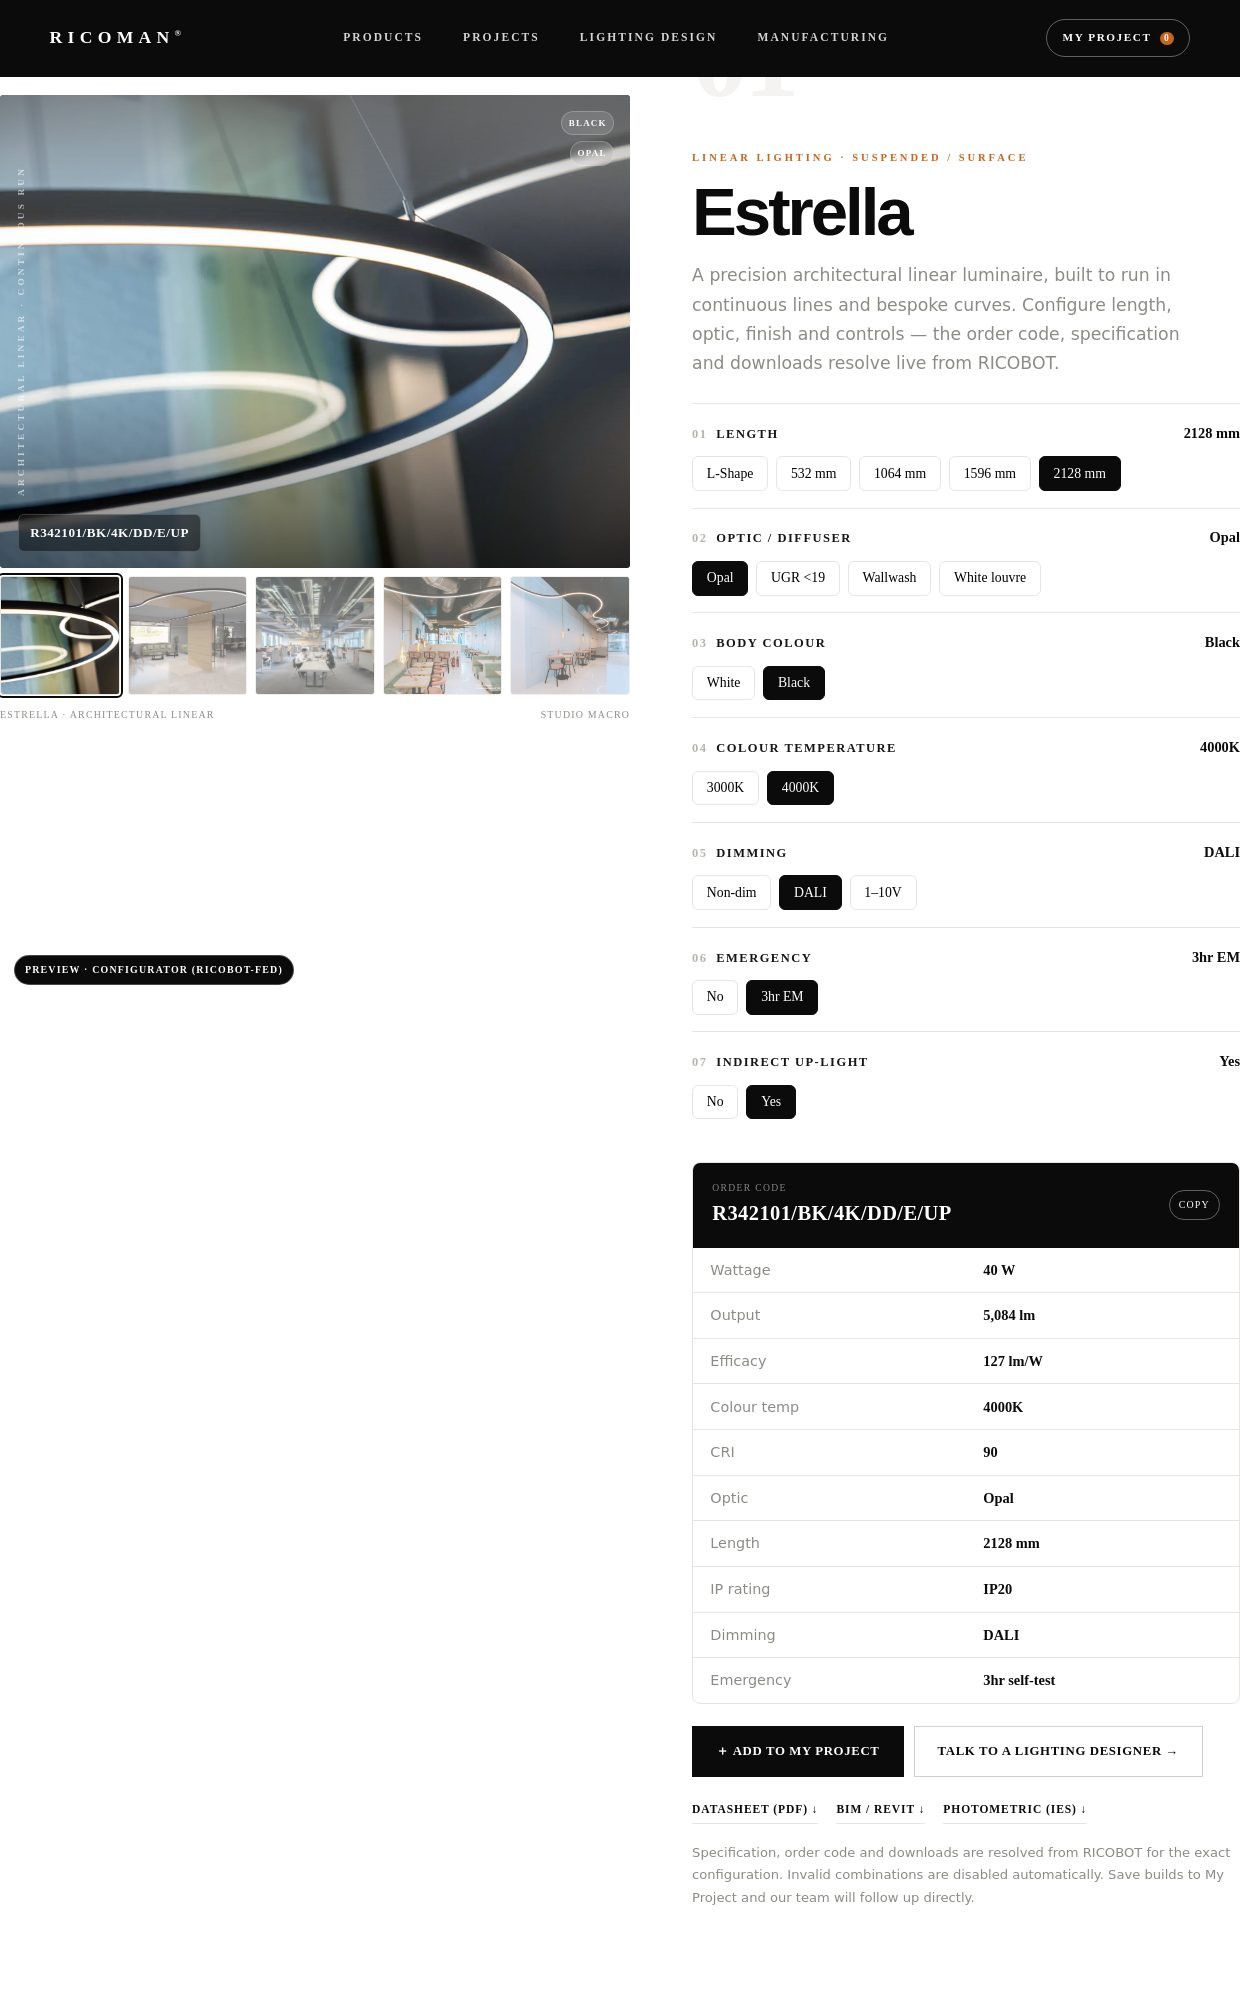
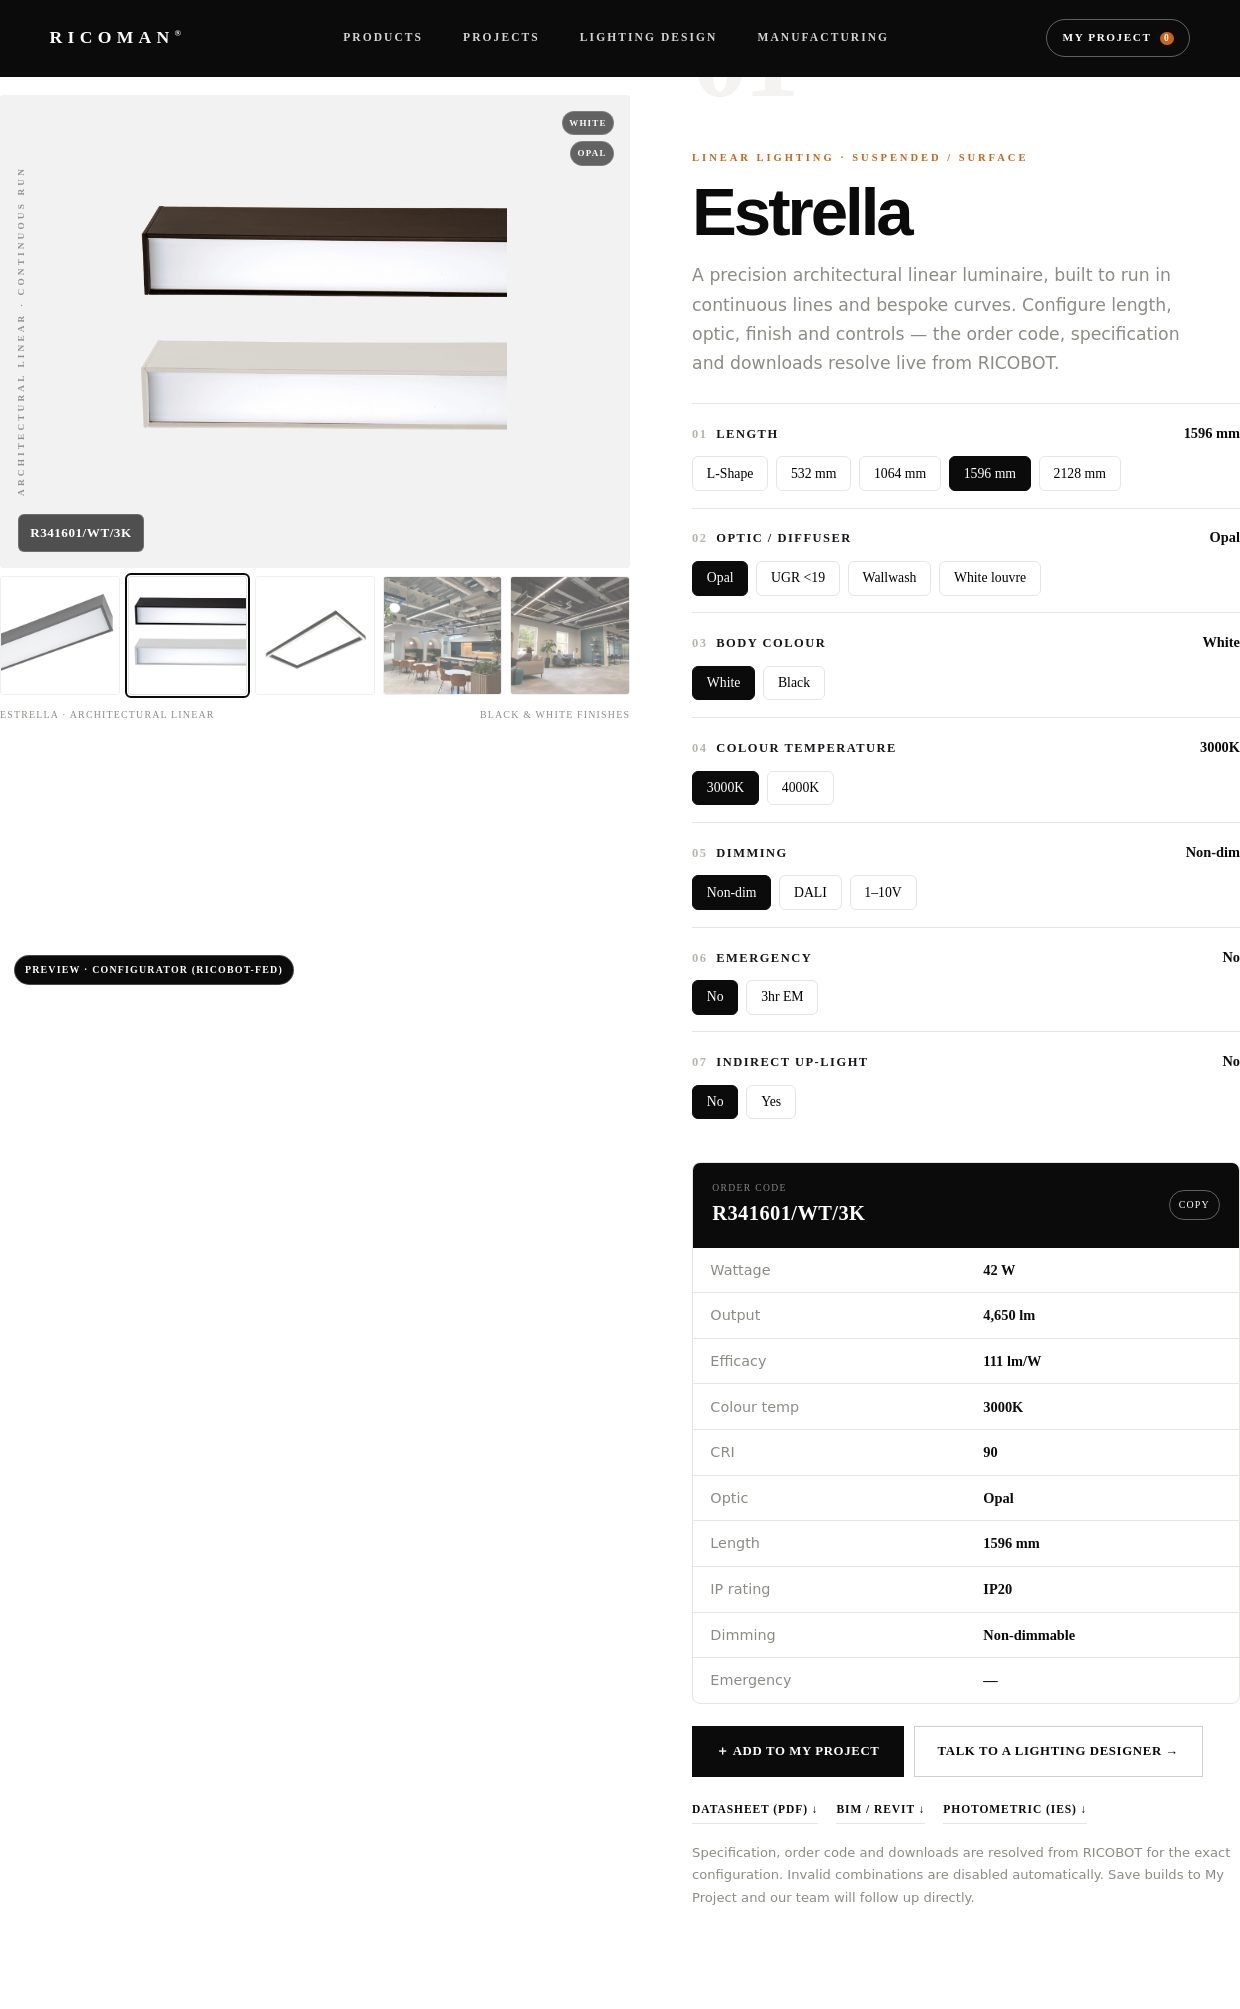
Configurator: ingest real Estrella photography + add Flow-style content
- Add 5 genuine Estrella images (black macro, black/white finish pair, L-shape
  frame, workplace canteen, breakout lounge) to previews/img
- Gallery now uses the real product + project shots; hero swaps with finish
  (white -> finish pair) and length (L-shape -> frame); product (white-bg)
  shots get a light stage with dark badges, project shots stay full-bleed
- Add rich editorial content below the configurator mirroring the Flow page:
  facts band, statement, full-bleed project, finish + continuous-run features,
  Made-in-Manchester band, spec stats, specifications + ordering tables,
  mosaic gallery, quote and CTA band

Claude-Session: https://claude.ai/code/session_01JBb5MKmF3Fs7o1qCwzd3N5

diff --git a/previews/preview-configurator.html b/previews/preview-configurator.html
@@ -55,6 +55,13 @@ header.site{position:sticky;top:0;z-index:50;background:var(--ink)}
 /* indirect up-light bloom */
 .viz .up{position:absolute;left:0;right:0;top:0;height:38%;background:linear-gradient(180deg,rgba(255,255,255,.55),transparent);opacity:0;transition:opacity .5s ease;pointer-events:none}
 .viz .grad{position:absolute;inset:0;background:linear-gradient(180deg,rgba(0,0,0,.35) 0%,transparent 24%,transparent 60%,rgba(0,0,0,.55) 100%);pointer-events:none}
+/* product (white-background) shots: light stage, contained, dark badges */
+.viz.prod{background:#f1f1f3}
+.viz.prod img{object-fit:contain;padding:7%}
+.viz.prod .grad{opacity:0}
+.viz.prod .side span{color:rgba(0,0,0,.4)}
+.viz.prod .chip{background:rgba(11,11,12,.62);border-color:rgba(255,255,255,.18)}
+.viz.prod .code{background:rgba(11,11,12,.7)}
 .viz .side{position:absolute;left:14px;top:0;bottom:0;display:flex;align-items:center;pointer-events:none}
 .viz .side span{writing-mode:vertical-rl;transform:rotate(180deg);font-family:Poppins;font-weight:600;text-transform:uppercase;letter-spacing:.34em;font-size:.58rem;color:rgba(255,255,255,.6)}
 .viz .chips{position:absolute;right:16px;top:16px;display:flex;flex-direction:column;align-items:flex-end;gap:6px}
@@ -104,6 +111,93 @@ footer.site{background:var(--ink);color:rgba(255,255,255,.5);padding:54px 0;font
 footer .row{display:flex;justify-content:space-between;flex-wrap:wrap;gap:18px;align-items:center}
 footer .brand{color:#fff;letter-spacing:.3em}
 .tag{position:fixed;left:14px;bottom:14px;z-index:99;background:var(--ink);color:#fff;font-family:Poppins;font-weight:600;font-size:.62rem;letter-spacing:.12em;text-transform:uppercase;padding:.55em 1em;border-radius:999px;border:1px solid rgba(255,255,255,.25)}
+
+/* =================== EDITORIAL CONTENT (Flow-style) =================== */
+.btn-line{border-color:rgba(255,255,255,.4);color:#fff}.btn-line:hover{background:#fff;color:var(--ink)}
+.kick .n{color:var(--ink);margin-right:1.4em}
+.kick.lt{color:rgba(255,255,255,.7)}.kick.lt .n{color:#fff}
+.col{max-width:1120px}
+.sec{padding-block:clamp(72px,10vw,160px)}
+.sec.tight{padding-block:clamp(48px,6vw,90px)}
+
+.facts{border-top:1px solid var(--line);border-bottom:1px solid var(--line)}
+.facts .wrap{display:grid;grid-template-columns:repeat(5,1fr)}
+.facts .f{padding:clamp(26px,3vw,42px) 0;padding-right:24px;border-right:1px solid var(--line)}
+.facts .f:last-child{border-right:0}
+.facts small{display:block;color:var(--muted);text-transform:uppercase;letter-spacing:.2em;font-size:.6rem;font-family:Poppins;font-weight:600;margin-bottom:12px}
+.facts b{font-family:Poppins;font-weight:500;font-size:clamp(1.05rem,1.4vw,1.45rem);letter-spacing:-.02em;color:var(--ink)}
+@media(max-width:820px){.facts .wrap{grid-template-columns:repeat(2,1fr)}.facts .f{border-right:0;border-bottom:1px solid var(--line);padding:22px var(--pad)}}
+
+.statement p{font-family:Poppins;font-weight:500;font-size:clamp(1.9rem,5vw,4.4rem);line-height:1.05;letter-spacing:-.035em;max-width:20ch;margin:0;color:var(--ink)}
+.statement p span{color:var(--faint)}
+
+.bleed{width:100%;height:clamp(380px,64vh,760px);object-fit:cover}
+.cap{font-family:Poppins;text-transform:uppercase;letter-spacing:.2em;font-size:.62rem;color:var(--muted);padding-top:14px}
+
+.feature{display:grid;grid-template-columns:1fr 1fr;gap:clamp(34px,6vw,120px);align-items:center}
+.feature + .feature{margin-top:clamp(56px,8vw,130px)}
+.feature.rev .media{order:2}
+.feature .media img{width:100%;aspect-ratio:4/5;object-fit:cover}
+.feature .media.prod{background:#f4f3f1;display:flex;align-items:center;justify-content:center}
+.feature .media.prod img{object-fit:contain;padding:8%;aspect-ratio:auto}
+.feature .body{max-width:440px}
+.feature h2{font-size:clamp(2rem,4vw,3.4rem);margin:.7em 0 .6em;font-weight:600}
+.feature .body>p{color:var(--muted);font-size:1.08rem;margin:0 0 1.6em}
+.feature ul{margin:0;padding:0;list-style:none}
+.feature li{padding:1em 0;border-top:1px solid var(--line);display:flex;gap:1.2em;align-items:baseline;font-size:1rem}
+.feature li .ix{font-family:Poppins;font-size:.66rem;letter-spacing:.14em;color:var(--faint)}
+@media(max-width:820px){.feature{grid-template-columns:1fr;gap:30px}.feature.rev .media{order:0}}
+
+.dark{background:var(--ink);color:#fff}
+.britain{display:grid;grid-template-columns:1fr 1fr;align-items:stretch}
+.britain .img{min-height:480px;background:url(img/rico-making.webp) center/cover no-repeat}
+.britain .body{padding:clamp(54px,8vw,130px) clamp(28px,6vw,100px)}
+.britain h2{color:#fff;font-size:clamp(2.2rem,4.4vw,3.6rem);margin:.6em 0 .7em;font-weight:600}
+.britain p{color:rgba(255,255,255,.7);font-size:1.1rem;margin:0 0 1.3em;max-width:44ch}
+@media(max-width:860px){.britain{grid-template-columns:1fr}.britain .img{min-height:320px;order:-1}}
+
+.specband{position:relative;color:#fff;overflow:hidden}
+.specband .bg{position:absolute;inset:0;background:url(img/estrella-canteen.jpg) center/cover no-repeat}
+.specband .scrim{position:absolute;inset:0;background:rgba(8,8,9,.76)}
+.specband .grid{position:relative;display:grid;grid-template-columns:repeat(5,1fr);gap:24px;text-align:center;padding-block:clamp(64px,8vw,130px)}
+.specband b{font-family:Poppins;font-weight:500;font-size:clamp(1.8rem,3.6vw,3.2rem);color:#fff;display:block;letter-spacing:-.03em}
+.specband small{color:rgba(255,255,255,.55);text-transform:uppercase;letter-spacing:.2em;font-size:.62rem;font-family:Poppins;font-weight:600}
+@media(max-width:820px){.specband .grid{grid-template-columns:repeat(2,1fr);gap:40px}}
+
+.tables{display:grid;grid-template-columns:1fr 1.5fr;gap:clamp(32px,6vw,100px);align-items:start}
+@media(max-width:820px){.tables{grid-template-columns:1fr}}
+.dtable{width:100%;border-collapse:collapse}
+.dtable th,.dtable td{text-align:left;padding:1.05em 0;border-bottom:1px solid var(--line);font-size:.95rem}
+.dtable th{color:var(--muted);font-weight:400;width:46%}
+.dtable td{font-family:Poppins;font-weight:600;color:var(--ink)}
+.sectlabel{font-family:Poppins;font-weight:600;font-size:1.35rem;letter-spacing:-.02em;margin-bottom:1.1em}
+.vars{width:100%;border-collapse:collapse}
+.vars thead th{border-bottom:1.5px solid var(--ink);color:var(--ink);padding:1em 0;font-family:Poppins;font-size:.66rem;text-align:left;letter-spacing:.16em;text-transform:uppercase}
+.vars td{padding:1.05em 0;border-bottom:1px solid var(--line);font-size:.9rem}
+.vars td:first-child{font-family:Poppins;font-weight:600}
+
+.mosaic{display:grid;grid-template-columns:2fr 1fr;gap:14px}
+.mosaic .c{display:grid;gap:14px}
+.mosaic img{width:100%;object-fit:cover}
+.mosaic .big{aspect-ratio:16/12}
+.mosaic .sm{aspect-ratio:1}
+@media(max-width:680px){.mosaic{grid-template-columns:1fr}}
+
+.quote{text-align:center}
+.quote blockquote{font-family:Poppins;font-weight:500;font-size:clamp(1.8rem,4.2vw,3.2rem);line-height:1.14;letter-spacing:-.03em;max-width:18ch;margin:0 auto .9em;color:var(--ink)}
+.quote cite{font-style:normal;color:var(--muted);font-family:Poppins;font-size:.7rem;letter-spacing:.2em;text-transform:uppercase}
+
+.shead{display:grid;grid-template-columns:1fr 1fr;gap:40px;align-items:end;margin-bottom:clamp(40px,6vw,80px)}
+.shead h2{font-size:clamp(2.2rem,4.6vw,4rem);margin:.5em 0 0;font-weight:600}
+@media(max-width:760px){.shead{grid-template-columns:1fr}}
+
+.ctaband{position:relative;color:#fff;text-align:center;overflow:hidden}
+.ctaband .bg{position:absolute;inset:0;background:url(img/estrella-lounge.webp) center/cover no-repeat}
+.ctaband .scrim{position:absolute;inset:0;background:rgba(8,8,9,.72)}
+.ctaband .inner{position:relative;padding-block:clamp(80px,11vw,170px)}
+.ctaband h2{color:#fff;font-size:clamp(2.2rem,4.6vw,4rem);margin-bottom:.5em;font-weight:600}
+.ctaband p{color:rgba(255,255,255,.78);max-width:46ch;margin:0 auto 2.2em;font-size:1.1rem}
+.ctaband .acts{display:flex;gap:14px;justify-content:center;flex-wrap:wrap}
 </style>
 </head>
 <body>
@@ -167,6 +261,127 @@ footer .brand{color:#fff;letter-spacing:.3em}
   </div>
 </section>
 
+<!-- ============================ STORY / CONTENT ============================ -->
+<section class="facts"><div class="wrap">
+  <div class="f"><small>Output</small><b>Up to 6,200 lm</b></div>
+  <div class="f"><small>Colour</small><b>3000K / 4000K · CRI 90</b></div>
+  <div class="f"><small>Optics</small><b>Opal · UGR&lt;19 · Wallwash</b></div>
+  <div class="f"><small>Mounting</small><b>Surface / Suspended</b></div>
+  <div class="f"><small>Warranty</small><b>5 years</b></div>
+</div></section>
+
+<section class="sec statement"><div class="wrap col">
+  <p>One profile, drawn as a single clean line. <span>Surface or suspended, in straight runs, L-shapes and frames — configured to your scheme.</span></p>
+</div></section>
+
+<figure style="margin:0"><img class="bleed" src="img/estrella-canteen.jpg" alt="Estrella suspended linear run in a workplace fit-out"></figure>
+<div class="wrap"><div class="cap">Workplace fit-out · Estrella suspended in matt black</div></div>
+
+<section class="sec"><div class="wrap">
+  <div class="feature">
+    <div class="media prod"><img src="img/estrella-finishes.png" alt="Estrella in black and white finishes"></div>
+    <div class="body">
+      <span class="kick"><span class="n">01</span>Finish</span>
+      <h2>Two finishes, one clean line</h2>
+      <p>A crisp extruded aluminium housing with a flush opal diffuser. Specified in matt black or white as standard, or any RAL to match the interior — with no visible fixings down the run.</p>
+      <ul>
+        <li><span class="ix">01</span> Matt black &amp; white as standard</li>
+        <li><span class="ix">02</span> Any RAL finish to order</li>
+        <li><span class="ix">03</span> Flush opal, UGR&lt;19, wallwash or louvre optics</li>
+      </ul>
+    </div>
+  </div>
+  <div class="feature rev">
+    <div class="media"><img src="img/estrella-lounge.webp" alt="Estrella continuous run in a breakout space"></div>
+    <div class="body">
+      <span class="kick"><span class="n">02</span>Continuous runs</span>
+      <h2>Built to run line after line</h2>
+      <p>Estrella links end-to-end into long, dot-free runs and turns through L-shapes and rectangular frames — so a single specified detail can carry across a whole floorplate.</p>
+      <ul>
+        <li><span class="ix">01</span> Continuous, joint-free diffusion</li>
+        <li><span class="ix">02</span> L-shapes &amp; rectangular frames</li>
+        <li><span class="ix">03</span> Integral 3hr emergency &amp; indirect up-light options</li>
+      </ul>
+    </div>
+  </div>
+</div></section>
+
+<section class="dark">
+  <div class="britain">
+    <div class="body">
+      <span class="kick lt"><span class="n">03</span>In-house Manufacturing</span>
+      <h2>Made to order in Manchester</h2>
+      <p>Estrella isn’t imported and rebadged. It’s engineered, assembled and tested under one roof in the UK — so runs are cut to your dimensions, finishes matched to your palette, and lead times stay short.</p>
+      <p>Designing and making in-house means tighter tolerances, full traceability, and the freedom to build to your geometry — to order, not to a catalogue.</p>
+      <a class="btn btn-line" style="margin-top:.6em">Inside our manufacturing →</a>
+    </div>
+    <div class="img"></div>
+  </div>
+</section>
+
+<section class="specband"><div class="bg"></div><div class="scrim"></div><div class="wrap"><div class="grid">
+  <div><b>6,200<span style="font-size:.34em;font-family:Poppins;letter-spacing:.05em"> LM</span></b><small>Max output</small></div>
+  <div><b>90</b><small>CRI</small></div>
+  <div><b>127<span style="font-size:.34em;font-family:Poppins;letter-spacing:.05em"> LM/W</span></b><small>Efficacy</small></div>
+  <div><b>IP20</b><small>Rating</small></div>
+  <div><b>5 yr</b><small>Warranty</small></div>
+</div></div></section>
+
+<section class="sec"><div class="wrap"><div class="tables">
+  <div>
+    <div class="sectlabel">Specifications</div>
+    <table class="dtable"><tbody>
+      <tr><th>Wattage</th><td>14 – 56 W</td></tr>
+      <tr><th>Output</th><td>1,550 – 6,200 lm</td></tr>
+      <tr><th>Efficacy</th><td>Up to 127 lm/W</td></tr>
+      <tr><th>CCT</th><td>3000K / 4000K</td></tr>
+      <tr><th>CRI</th><td>90</td></tr>
+      <tr><th>Optics</th><td>Opal · UGR&lt;19 · Wallwash · Louvre</td></tr>
+      <tr><th>Lengths</th><td>532 / 1064 / 1596 / 2128 mm · L-shape</td></tr>
+      <tr><th>IP rating</th><td>IP20</td></tr>
+      <tr><th>Controls</th><td>Non-dim · DALI · 1–10V</td></tr>
+      <tr><th>Options</th><td>3hr emergency · indirect up-light</td></tr>
+      <tr><th>Origin</th><td>Made in Manchester, UK</td></tr>
+    </tbody></table>
+  </div>
+  <div>
+    <div class="sectlabel">Ordering &amp; variants</div>
+    <table class="vars">
+      <thead><tr><th>Order code</th><th>Description</th><th>Watts</th><th>Lumens</th><th>CCT</th></tr></thead>
+      <tbody>
+        <tr><td>R340501/WT/3K</td><td>532 mm · Opal · White</td><td>14</td><td>1,550 lm</td><td>3000K</td></tr>
+        <tr><td>R341101/BK/4K</td><td>1064 mm · Opal · Black</td><td>28</td><td>3,100 lm</td><td>4000K</td></tr>
+        <tr><td>R341609/WT/4K/DD</td><td>1596 mm · UGR&lt;19 · DALI</td><td>42</td><td>4,185 lm</td><td>4000K</td></tr>
+        <tr><td>R342101/BK/4K/DD/E/UP</td><td>2128 mm · Opal · EM · up-light</td><td>40</td><td>5,084 lm</td><td>4000K</td></tr>
+        <tr><td>R340101/BK/4K</td><td>L-shape frame · Opal · Black</td><td>24</td><td>2,600 lm</td><td>4000K</td></tr>
+      </tbody>
+    </table>
+    <div style="display:flex;gap:12px;flex-wrap:wrap;margin-top:2em">
+      <a class="btn btn-solid">Datasheet (PDF) ↓</a>
+      <a class="btn btn-line-d">＋ Add to My Project</a>
+    </div>
+  </div>
+</div></div></section>
+
+<section class="tight" style="padding-top:0"><div class="wrap"><div class="mosaic">
+  <img class="big" src="img/estrella-lounge.webp" alt="Estrella continuous run — breakout space">
+  <div class="c">
+    <img class="sm" src="img/estrella-black.png" alt="Estrella black product detail" style="background:#f4f3f1">
+    <img class="sm" src="img/estrella-canteen.jpg" alt="Estrella suspended in workplace canteen">
+  </div>
+</div></div></section>
+
+<section class="sec quote"><div class="wrap col">
+  <blockquote>“Specified as one continuous detail — the run carried straight through the whole floor.”</blockquote>
+  <cite>Lighting Designer · Commercial Office Fit-out</cite>
+</div></section>
+
+<section class="ctaband"><div class="bg"></div><div class="scrim"></div><div class="inner"><div class="wrap col">
+  <h2>Specify Estrella on your next project</h2>
+  <p>Build your configuration above, save it to My Project, and our in-house lighting team will return a fully specified, made-to-order scheme — with BIM, photometric and datasheet files.</p>
+  <div class="acts"><a class="btn btn-line">＋ Add to My Project</a><a class="btn btn-solid" style="background:#fff;color:var(--ink)">Talk to a lighting designer →</a></div>
+</div></div></section>
+
 <footer class="site"><div class="wrap row">
   <div class="brand">RICOMAN<sup>®</sup></div>
   <div>Metroplex Business Park · 520 Broadway · M50 2UE · Manchester · 0161 451 5913</div>
@@ -215,15 +430,20 @@ const MOCK_FEED = {
 
 /* real Estrella / project photography fed alongside the model */
 const GALLERY = [
-  { src:"img/rico-office-render.webp", cap:"Studio macro" },
-  { src:"img/rico-office.jpg",         cap:"Office · continuous curve" },
-  { src:"img/ceiling.jpg",             cap:"Workplace · suspended run" },
-  { src:"img/rico-kingsgate.png",      cap:"Fleur Patisserie · feature line" },
-  { src:"img/rico-ins2.png",           cap:"Fleur Patisserie · vertical sweep" }
+  { id:"black",    prod:true, src:"img/estrella-black.png",    cap:"Studio · black finish" },
+  { id:"finishes", prod:true, src:"img/estrella-finishes.png", cap:"Black &amp; white finishes" },
+  { id:"frame",    prod:true, src:"img/estrella-frame.png",    cap:"L-shape / frame form" },
+  { id:"canteen",             src:"img/estrella-canteen.jpg",  cap:"Workplace · suspended run" },
+  { id:"lounge",              src:"img/estrella-lounge.webp",  cap:"Breakout · continuous run" }
 ];
+function heroIndexFor(){
+  if(state.size==="01")   return GALLERY.findIndex(g=>g.id==="frame");
+  if(state.colour==="WT") return GALLERY.findIndex(g=>g.id==="finishes");
+  return GALLERY.findIndex(g=>g.id==="black");
+}
 
 const state = { size:"16", optic:"01", colour:"WT", cct:"3K", dim:"", em:"", up:"" };
-let activeImg = 0;
+let activeImg = heroIndexFor();
 
 function resolveConfig(sel){
   // ---- this is the bit RICOBOT does for real ----
@@ -278,7 +498,7 @@ function build(){
     ax.options.forEach(o=>{
       const b=document.createElement("button");
       b.className="opt-b"+(o.v===cur?" on":""); b.textContent=o.label;
-      b.onclick=()=>{ state[ax.key]=o.v; render(); };
+      b.onclick=()=>{ state[ax.key]=o.v; if(ax.key==="colour"||ax.key==="size"){ activeImg=heroIndexFor(); } render(); };
       opts.appendChild(b);
     });
     wrap.appendChild(opts); host.appendChild(wrap);
@@ -296,10 +516,12 @@ function render(){
   // ---- live photography stage ----
   const g = GALLERY[activeImg];
   if ($("#vizImg").getAttribute("src") !== g.src){ $("#vizImg").src = g.src; }
-  $("#capView").textContent = g.cap;
-  // colour-temperature wash responds to CCT toggle
-  $("#vizCct").style.background = state.cct==="3K"
-    ? "rgba(255,176,84,.55)" : "rgba(150,200,255,.45)";
+  $("#capView").innerHTML = g.cap;
+  document.querySelector(".viz").classList.toggle("prod", !!g.prod);
+  // colour-temperature wash responds to CCT toggle (subtler on product shots)
+  const warm = g.prod ? "rgba(255,176,84,.30)" : "rgba(255,176,84,.55)";
+  const cool = g.prod ? "rgba(150,200,255,.26)" : "rgba(150,200,255,.45)";
+  $("#vizCct").style.background = state.cct==="3K" ? warm : cool;
   // indirect up-light bloom
   $("#vizUp").style.opacity = state.up ? "1" : "0";
   // finish + optic chips
